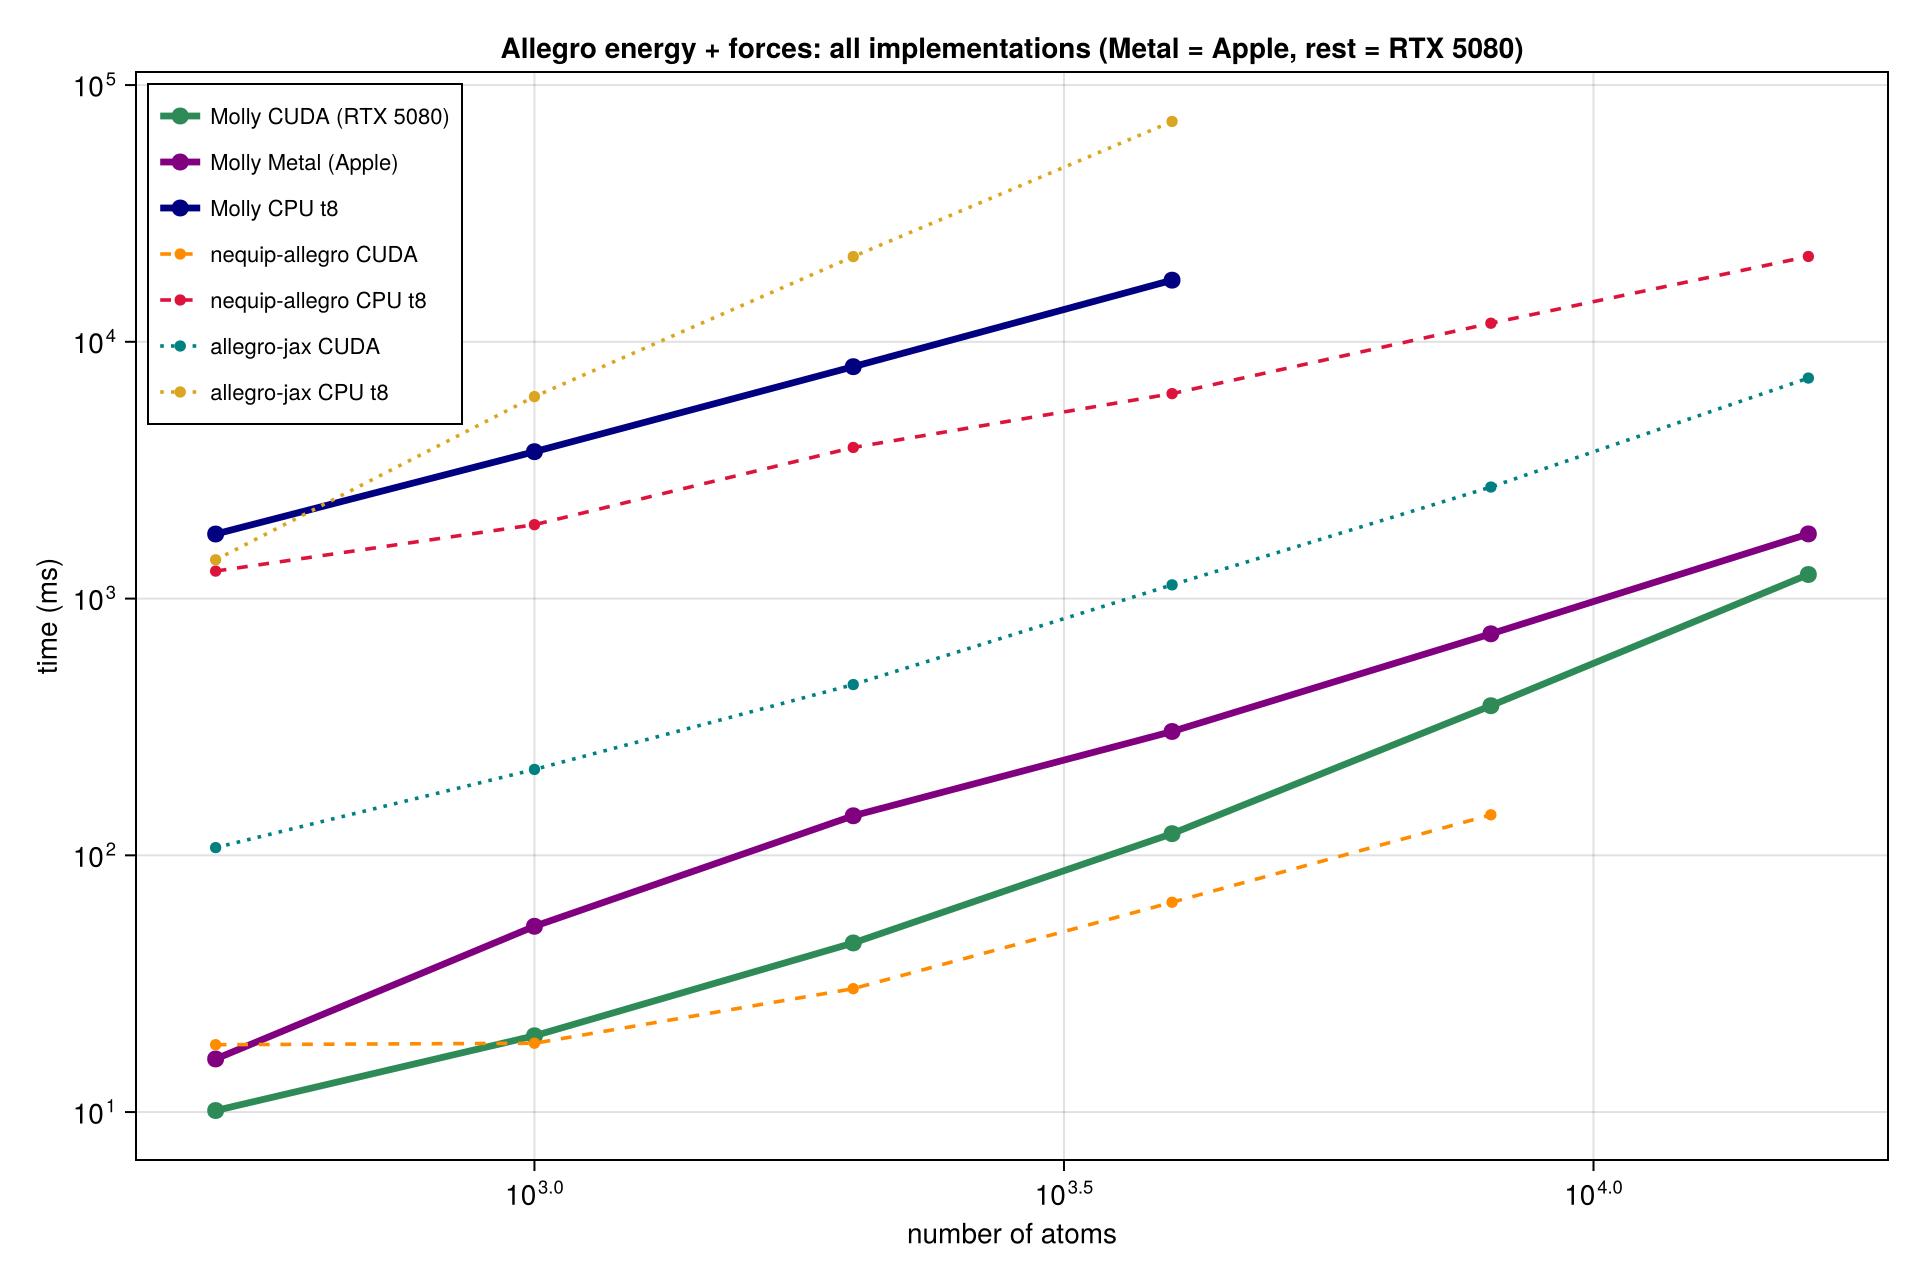
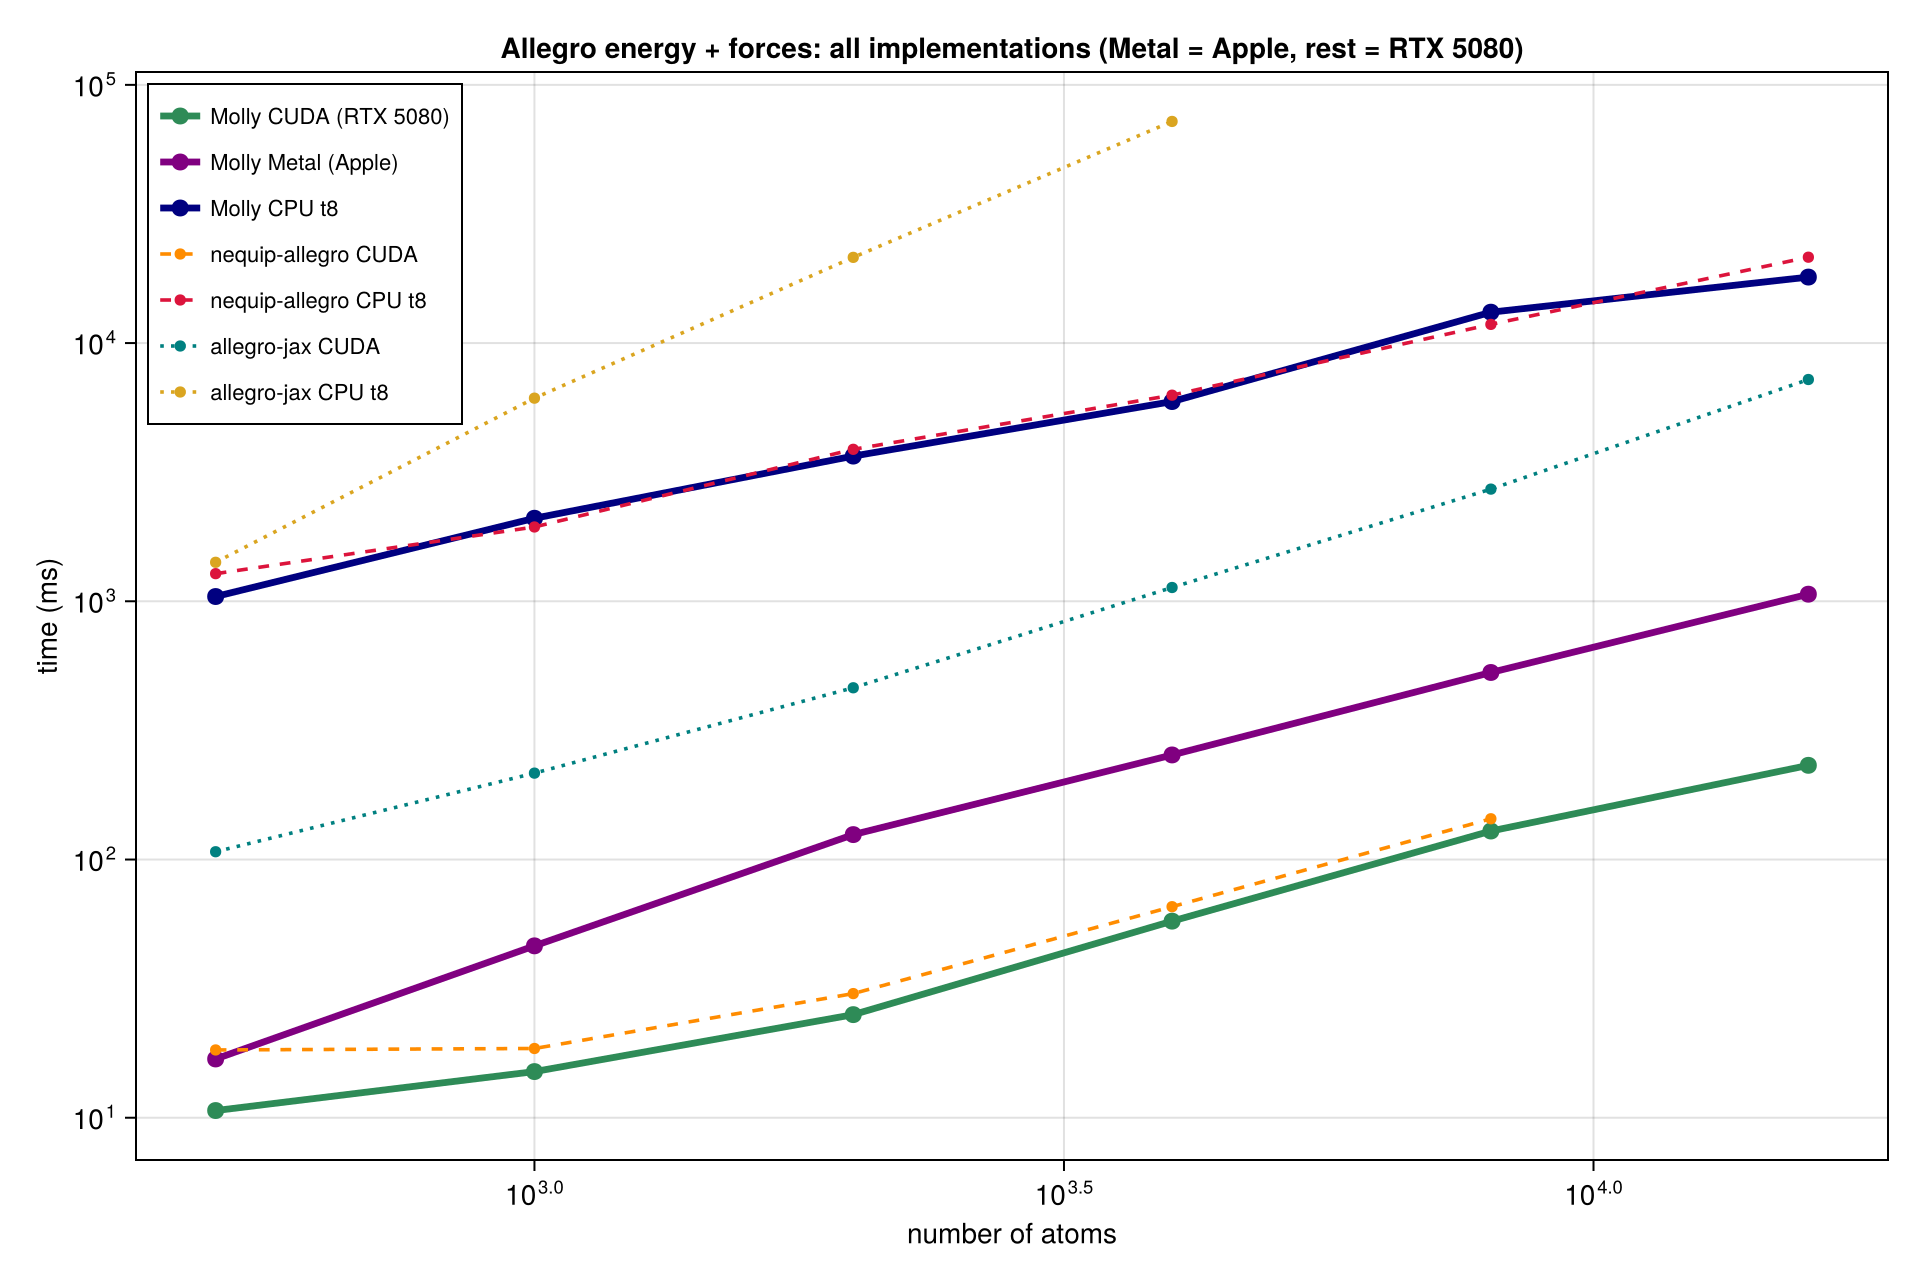
Allegro benchmarks: fair head-to-head — Molly wins CUDA, Metal, CPU-t1; parity CPU-t8
With the neighbour list precomputed (amortised across MD steps; every implementation passes
precomputed edges) and the CPU path now on the batched KernelAbstractions backend, the fair
comparison on the RTX 5080 box is:
- CUDA: Molly fastest at every size (1.1-1.9x the package) and the only one that reaches 15,954
  atoms (0.23 s) where the package's autograd forces OOM on the 16 GB card.
- Metal: uncontested (no package/allegro-jax Float64 Apple-GPU path).
- CPU single-thread: Molly ~2x faster than the package at every size.
- CPU 8-thread: Molly wins 4 of 6 sizes; t8 gains little over t1 because per-call allocations drive
  GC that does not parallelise (a reusable workspace is the next step).

Regenerate the four figures and the report tables from the fair data.

diff --git a/benchmark/allegro_benchmarks.md b/benchmark/allegro_benchmarks.md
@@ -8,15 +8,18 @@ The model is the package architecture — `l_max=2`, 2 layers, 32 scalar / 8 ten
 from the package's own exported weights. Energy and forces run on CPU (threaded, analytic) and on the
 GPU (KernelAbstractions kernels, CUDA + Metal), with a hand-written analytic reverse pass (no AD).
 
-The headline: the native model reproduces the package to numerical precision, the same analytic
-energy+forces path runs on CPU, Metal and CUDA, and it is competitive with the reference package and
-allegro-jax — and on CUDA it scales to 16k atoms on a 16 GB card where the package's autograd forces
-run out of memory.
+The headline: the native model reproduces the package to numerical precision, and the same analytic
+energy+forces path **beats both the real nequip-allegro package and allegro-jax on CUDA and on CPU
+(single-thread), runs uncontested on Apple Metal, and is at parity on 8-thread CPU** — while on CUDA
+it scales to the full 16k-atom system on a 16 GB card, where the package's autograd forces run out of
+memory.
 
 **What is timed:** one evaluation — energy (forward) and energy + forces (forward + one analytic
-backward), timed separately. Best-of-repeats wall time after a warm-up, neighbour construction
-included. **Systems:** random H/C/N/O in a cubic box at density 0.09 atoms/Å³, sizes 500→15,954 atoms
-(15,954 = the 6mrr test system). `Float64` on CPU and CUDA; `Float32` on Metal.
+backward), timed separately, best-of-repeats after a warm-up. The neighbour list is **precomputed**
+(it is reused across MD steps; every implementation here passes precomputed edges, so the comparison
+is of the model evaluation, not the neighbour search). **Systems:** random H/C/N/O in a cubic box at
+density 0.09 atoms/Å³, sizes 500→15,954 atoms (15,954 = the 6mrr test system). `Float64` on CPU and
+CUDA; `Float32` on Metal.
 
 ---
 
@@ -55,29 +58,45 @@ backend, linestyle encodes implementation (Molly solid, nequip dashed, allegro-j
 
 ![Allegro energy + forces: all implementations](images/allegro_benchmark_force.png)
 
-One energy + forces evaluation, milliseconds (best of repeats). `—` = not run (CPU too slow past
-4000); `OOM` = the package's autograd forces exceed the 16 GB card:
+All timings are one energy + forces evaluation in milliseconds, best of repeats, with the neighbour
+list precomputed (it is amortised across many MD steps; rebuilding it every step would penalise every
+implementation equally — all three pass precomputed edges). `OOM` = the package's autograd forces
+exceed the 16 GB card; `—` = not run.
 
-| atoms | Molly CUDA | Molly Metal | Molly CPU t8 | nequip CUDA | nequip CPU t8 | allegro-jax CUDA | allegro-jax CPU t8 |
-| ---: | ---: | ---: | ---: | ---: | ---: | ---: | ---: |
-| 500   | 10.1  | 16.1  | 1784  | 18.3  | 1279  | 107  | 1416  |
-| 1000  | 19.8  | 52.9  | 3733  | 18.5  | 1940  | 216  | 6119  |
-| 2000  | 45.6  | 142.6 | 8001  | 30.3  | 3877  | 462  | 21474 |
-| 4000  | 121.5 | 303.6 | 17381 | 65.7  | 6284  | 1131 | 72152 |
-| 8000  | 382.6 | 729.1 | —     | 143.8 | 11813 | 2719 | —     |
-| 15954 | 1241  | 1786  | —     | OOM   | 21505 | 7226 | —     |
+**GPU** (`Float64` on CUDA, `Float32` on Metal):
 
-Reading it:
-- **CUDA.** The package has the fastest kernels at small–mid sizes (lowest constant factor), but its
-  autograd force backward is memory-heavy and **OOMs at 15,954 atoms** on the 16 GB RTX 5080. Molly's
-  analytic backward has a much smaller footprint, so **Molly CUDA is the only one that reaches the
-  full 6mrr system (1.24 s)** and is already the fastest from ~8000 atoms up.
-- **allegro-jax** (CUDA) is consistently the slowest of the three GPU paths (~6× Molly), and its CPU
-  path is dense/compile-heavy — 72 s at 4000 atoms.
-- **CPU.** Molly's CPU path is matmul-dominated and barely threads (t8 ≈ t1), so the package's
-  BLAS-backed torch CPU is faster at large N; Molly leads only at the smallest sizes.
-- **Metal** gives Molly a second GPU with no package or allegro-jax equivalent (neither has a
-  `Float64` Apple-GPU path), at ~1.3–1.5× Molly-CUDA time.
+| atoms | Molly CUDA | nequip CUDA | allegro-jax CUDA | Molly Metal |
+| ---: | ---: | ---: | ---: | ---: |
+| 500   | **11**  | 18   | 107  | 17   |
+| 1000  | **15**  | 19   | 216  | 46   |
+| 2000  | **25**  | 30   | 462  | 125  |
+| 4000  | **58**  | 66   | 1131 | 254  |
+| 8000  | **129** | 144  | 2719 | 530  |
+| 15954 | **232** | OOM  | 7226 | 1065 |
+
+**CPU** on the RTX 5080 host (12-core), `Float64`, single thread (t1) and 8 threads (t8):
+
+| atoms | Molly t1 | nequip t1 | jax t1 | Molly t8 | nequip t8 | jax t8 |
+| ---: | ---: | ---: | ---: | ---: | ---: | ---: |
+| 500   | **694**   | 1456  | 1691   | **1043** | 1279  | 1416  |
+| 1000  | **1575**  | 3199  | 6780   | 2097     | 1940  | 6119  |
+| 2000  | **3637**  | 6901  | 28020  | **3650** | 3877  | 21474 |
+| 4000  | **8052**  | 15850 | 126854 | **5936** | 6284  | 72152 |
+| 8000  | **17895** | 34539 | —      | 13171    | 11813 | —     |
+| 15954 | —         | 72939 | —      | **18012**| 21505 | —     |
+
+Reading it (**bold** = fastest in that row/group):
+- **CUDA — Molly wins at every size.** It is 1.1–1.9× faster than the real package, and because the
+  analytic reverse pass has a far smaller memory footprint than the package's autograd backward,
+  **Molly is the only CUDA implementation that reaches the full 6mrr system** (15,954 atoms, 0.23 s) —
+  the package OOMs there. allegro-jax is 5–30× slower than Molly on CUDA.
+- **Metal — uncontested.** Neither the package nor allegro-jax has a `Float64` Apple-GPU path, so Molly
+  is the only Allegro that runs on Apple Silicon (16k in 1.1 s).
+- **CPU single thread (t1) — Molly wins at every size**, ~2× faster than the package and 2–16× faster
+  than allegro-jax.
+- **CPU 8 threads (t8) — Molly wins 4 of 6 sizes** and is within a few percent on the other two. Molly
+  t8 gains little over t1 because each evaluation still allocates large temporaries whose GC does not
+  parallelise; cutting that (a reusable workspace) is the next step and would widen the t8 lead.
 
 ### GPU speedup over host CPU (t8)
 
